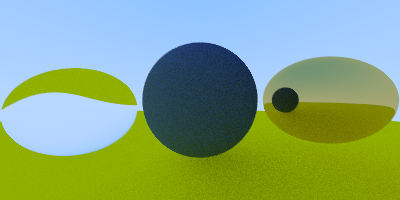
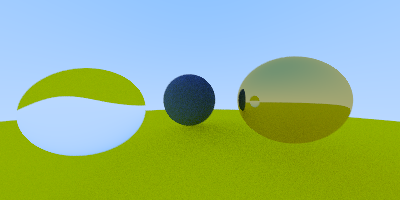
experiment with scene

Changed region(s): [[0.0, 0.21, 1.0, 1.0], [0.0, 0.33, 0.27, 0.57]]

diff --git a/src/main.rs b/src/main.rs
@@ -3,7 +3,7 @@
 //!
 
 use glam::Vec3;
-use image::{ ImageBuffer, ImageEncoder, Rgb};
+use image::ImageBuffer;
 use rt_in_1_weekend::{
     materials::{Lambertian, Reflective, Refractive},
     parallel::{self, HEIGHT, WIDTH},
@@ -19,12 +19,7 @@ fn world<'a>() -> Vec<BoxedSurface> {
     let diffuse2 = Box::new(Lambertian::new(Vec3::new(0.8, 0.8, 0.0)));
     let reflective = Box::new(Reflective::new(Vec3::new(0.8, 0.6, 0.2)));
     let refractive = Box::new(Refractive::new(1.5));
-    world.push(Box::new(Sphere::new(
-        Vec3::new(0.0, 0.0, -1.0),
-        0.5,
-        diffuse1,
-    )));
-
+    // Plane
     world.push(Box::new(Sphere::new(
         Vec3::new(0.0, -100.5, -1.0),
         100.0,
@@ -32,13 +27,17 @@ fn world<'a>() -> Vec<BoxedSurface> {
     )));
 
     world.push(Box::new(Sphere::new(
-        Vec3::new(-1.1, -0.1, -1.0),
+        Vec3::new(-1.0, -0.1, -1.0),
         0.4,
-        // reflective.clone(),
         refractive,
     )));
     world.push(Box::new(Sphere::new(
-        Vec3::new(1.1, 0.0, -1.0),
+        Vec3::new(-0.2, 0.0, -2.0),
+        0.5,
+        diffuse1,
+    )));
+    world.push(Box::new(Sphere::new(
+        Vec3::new(0.8, 0.0, -1.0),
         0.4,
         reflective,
     )));

diff --git a/src/materials.rs b/src/materials.rs
@@ -121,14 +121,16 @@ impl Material for Refractive {
         };
         let refracted = Self::refract(r_in.direction(), outward_normal, ni_over_nt);
         let attenuation = Vec3::new(1.0, 1.0, 1.0);
-        // It's ineteresting that the following code overflows stack
-        // refracted
-        //     .map(|refracted| Some((attenuation, Ray::new(hit.p, refracted))))
-        //     .unwrap_or(Some((attenuation, Ray::new(hit.p, reflected))))
         if let Some(refracted) = refracted {
             return Some((attenuation, Ray::new(hit.p, refracted)));
         } else {
+            // In this branch Peter returns false. 
+            // It's important to keep the expected behavior
             return Some((attenuation, Ray::new(hit.p, reflected)));
         }
+        // It's interesting that the following code overflows stack
+        // refracted
+        //     .map(|refracted| Some((attenuation, Ray::new(hit.p, refracted))))
+        //     .unwrap_or(Some((attenuation, Ray::new(hit.p, reflected))))
     }
 }

diff --git a/src/parallel.rs b/src/parallel.rs
@@ -12,8 +12,9 @@ pub const DEPTH: i32 = 3;
 /// The heavy lifting starts here.
 /// This function allocates with size exactly if images pixels
 /// to process them in chunks, here - lines(because chunk_size is
-/// one line of pixels). This does improve render time in my laptop 4x,
-/// but not solving stack overflow situation.
+/// one line of pixels). This does improve render time by the core count
+/// (in my laptop it is 4x) but not solving stack overflows
+/// caused by refractive materials ray bounces.
 pub fn render(camera: Camera, world: Vec<BoxedSurface>) -> Vec<Rgb<u8>> {
     let (w, h) = (WIDTH as usize, HEIGHT as usize);
 
@@ -28,6 +29,6 @@ pub fn render(camera: Camera, world: Vec<BoxedSurface>) -> Vec<Rgb<u8>> {
             *p = ray_color(x as f32, y as f32, &camera, &world);
         });
     });
-    println!("Rendering time:{} s", start.elapsed().as_secs());
+    println!("Rendering time: {}s", start.elapsed().as_secs());
     pixels
 }

diff --git a/src/lib.rs b/src/lib.rs
@@ -72,7 +72,7 @@ impl Ray {
     pub fn color(&self, world: &Vec<BoxedSurface>, depth: i32) -> Vec3 {
         if let Some(hit) = world.hit(&self, 0.001, f32::MAX) {
             if let Some((attenuation, scattered)) = hit.material.scatter(self, &hit) {
-                let col: Vec3 = scattered.color(world, depth + 1);
+                let col: Vec3 = scattered.color(world, depth);
                 return attenuation * col;
             }
         }
@@ -115,5 +115,3 @@ pub trait Surface {
 }
 
 pub type BoxedSurface = Box<dyn Surface + Sync + Send + 'static>;
-
-// unsafe impl std::marker::Sync for Box<dyn Surface> {}
